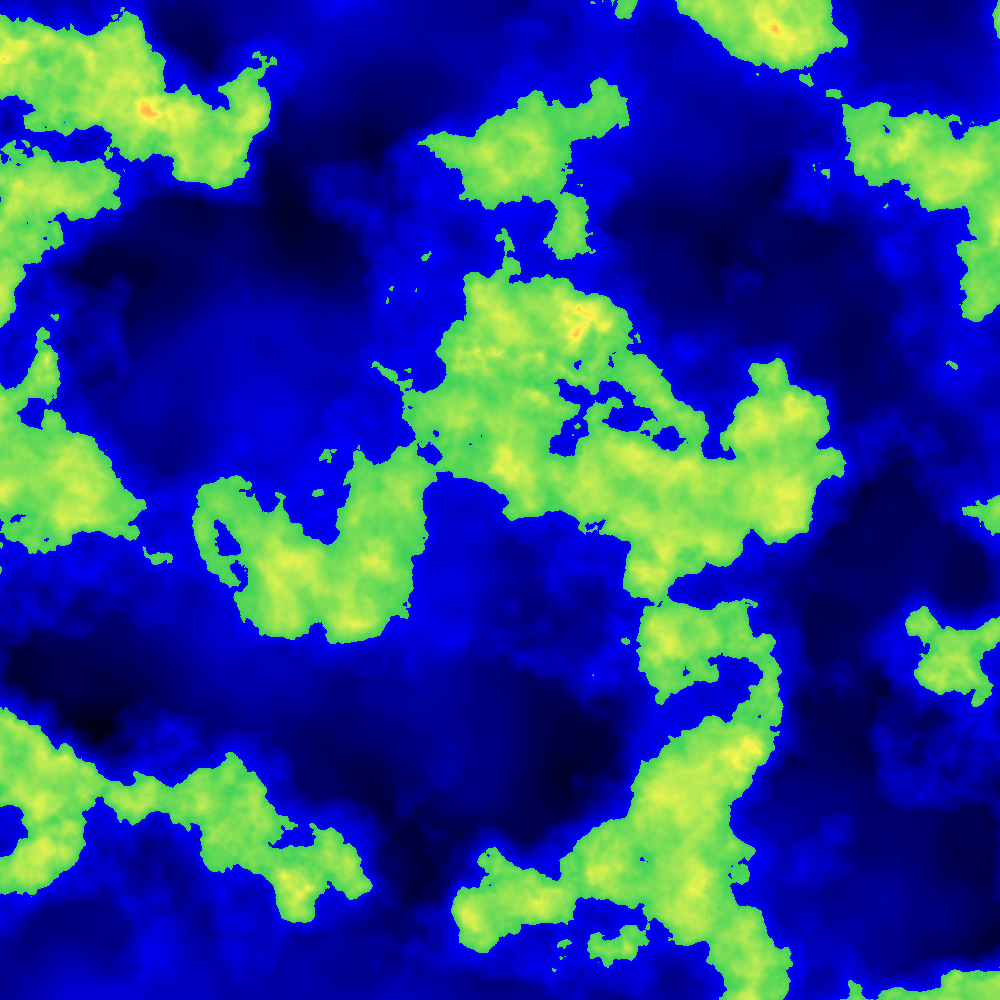
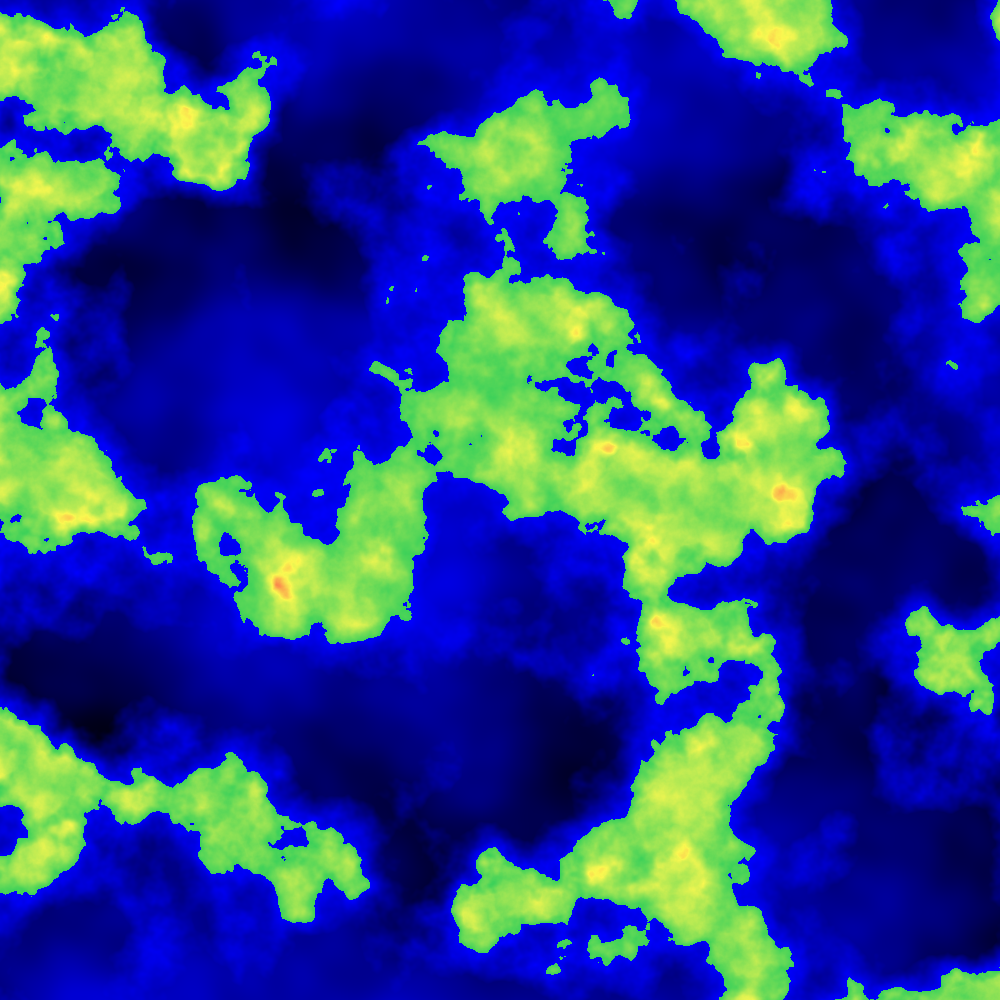
Changed mountain noise parameters.

diff --git a/src/main/java/me/alexng/worldGen/pipeline/MountainPipeWorker.java b/src/main/java/me/alexng/worldGen/pipeline/MountainPipeWorker.java
@@ -8,11 +8,11 @@ import me.alexng.worldGen.Sampler;
 public class MountainPipeWorker implements PipeWorker {
 
 	private static final float MOUNTAIN_NOISE_AMP = 0.57f;
-	private static final float MOUNTAIN_FILTER_START = 0.7f;
-	private static final float MOUNTAIN_FILTER_WIDTH = 0.1f;
+	private static final float MOUNTAIN_FILTER_START = 0.6f;
+	private static final float MOUNTAIN_FILTER_WIDTH = 0.2f;
 	private static final float MOUNTAIN_FILTER_END = MOUNTAIN_FILTER_START + MOUNTAIN_FILTER_WIDTH;
 
-	private FastNoiseLite mountainNoise, mountainFilterNoise;
+	private FastNoiseLite mountainNoise, mountainNoise2, mountainFilterNoise;
 
 	@Override
 	public void setup(int seed, Sampler sampler) {
@@ -26,12 +26,12 @@ public class MountainPipeWorker implements PipeWorker {
 		float sampleNormalized = NoiseHelper.normalize(mountainNoise.GetNoise(point.getX(), point.getY())); // [0, 1]
 		float filterSampleNormalized = NoiseHelper.normalize(mountainFilterNoise.GetNoise(point.getX(), point.getY())); // [0, 1]
 		if (filterSampleNormalized > MOUNTAIN_FILTER_END) {
-			filterSampleNormalized = 1 * landmassNormalized;
+			filterSampleNormalized = 1;
 		} else if (filterSampleNormalized < MOUNTAIN_FILTER_START) {
 			filterSampleNormalized = 0;
 		} else {
-			filterSampleNormalized = (filterSampleNormalized - MOUNTAIN_FILTER_START) / MOUNTAIN_FILTER_WIDTH * landmassNormalized;
+			filterSampleNormalized = (filterSampleNormalized - MOUNTAIN_FILTER_START) / MOUNTAIN_FILTER_WIDTH ;
 		}
-		return NoiseHelper.stretch(((float) Math.pow(Math.E, sampleNormalized) - 1) * MOUNTAIN_NOISE_AMP * filterSampleNormalized); // [-1, 1]
+		return NoiseHelper.stretch(((float) Math.pow(Math.E, sampleNormalized) - 1) * MOUNTAIN_NOISE_AMP * filterSampleNormalized * landmassNormalized); // [-1, 1]
 	}
 }

diff --git a/src/main/java/me/alexng/worldGen/NoiseHelper.java b/src/main/java/me/alexng/worldGen/NoiseHelper.java
@@ -89,7 +89,7 @@ public class NoiseHelper {
 		noise.SetNoiseType(FastNoiseLite.NoiseType.OpenSimplex2);
 		noise.SetRotationType3D(FastNoiseLite.RotationType3D.None);
 		noise.SetSeed(seed);
-		noise.SetFrequency(0.0004f);
+		noise.SetFrequency(0.0008f);
 
 		noise.SetFractalType(FastNoiseLite.FractalType.FBm);
 		noise.SetFractalOctaves(4);
@@ -105,7 +105,7 @@ public class NoiseHelper {
 		noise.SetNoiseType(FastNoiseLite.NoiseType.Cellular);
 		noise.SetRotationType3D(FastNoiseLite.RotationType3D.None);
 		noise.SetSeed(seed);
-		noise.SetFrequency(0.006f);
+		noise.SetFrequency(0.003f);
 
 		noise.SetFractalType(FastNoiseLite.FractalType.Ridged);
 		noise.SetFractalOctaves(2);
